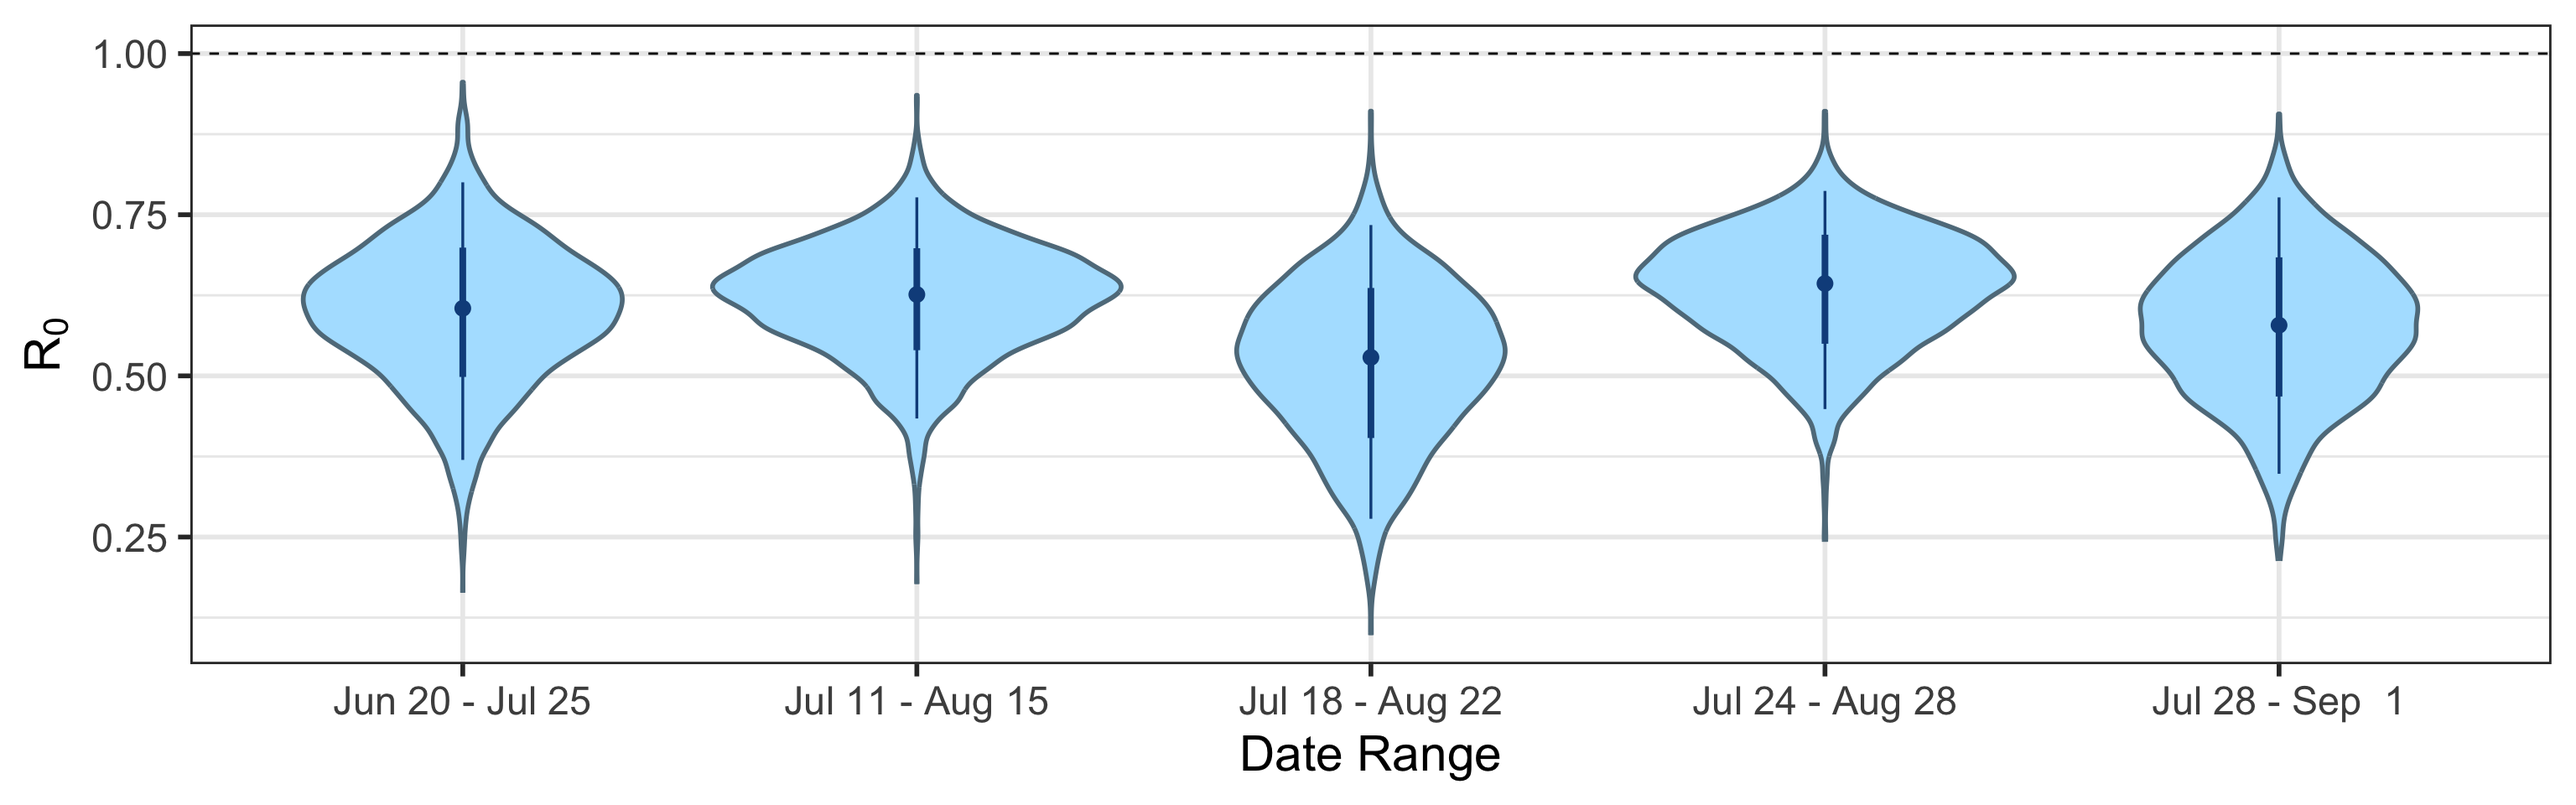
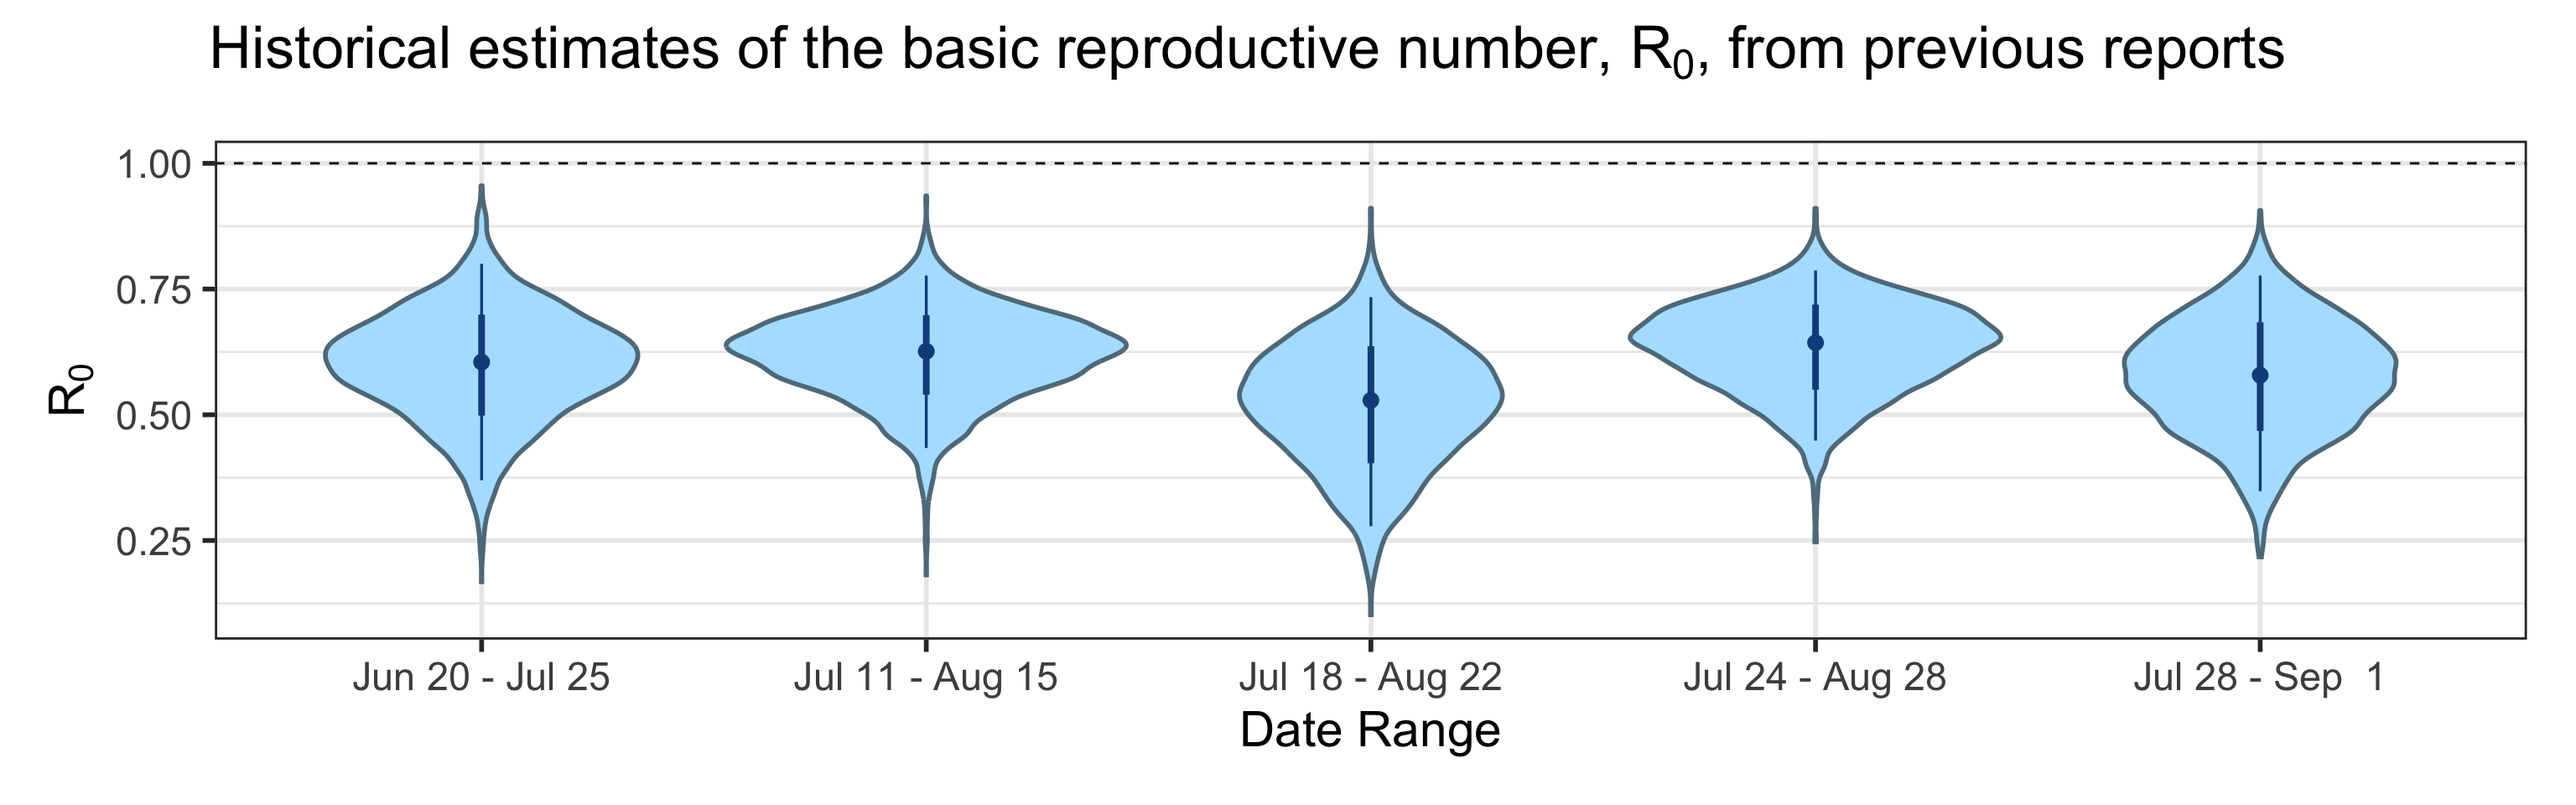
added title to the historical R0 plot

diff --git a/docs/index.html b/docs/index.html
@@ -358,7 +358,7 @@ $(document).ready(function () {
 <strong>Last updated:</strong> 2020-09-14
 </p>
 <p>
-<strong>Checks:</strong> <span class="glyphicon glyphicon-ok text-success" aria-hidden="true"></span> 5 <span class="glyphicon glyphicon-exclamation-sign text-danger" aria-hidden="true"></span> 2
+<strong>Checks:</strong> <span class="glyphicon glyphicon-ok text-success" aria-hidden="true"></span> 6 <span class="glyphicon glyphicon-exclamation-sign text-danger" aria-hidden="true"></span> 1
 </p>
 <p>
 <strong>Knit directory:</strong> <code>uci_covid_modeling/</code> <span class="glyphicon glyphicon-question-sign" aria-hidden="true" title="This is the local directory in which the code in this file was executed."> </span>
@@ -422,63 +422,12 @@ This reproducible <a href="http://rmarkdown.rstudio.com">R Markdown</a> analysis
 <div class="panel panel-default">
 <div class="panel-heading">
 <p class="panel-title">
-<a data-toggle="collapse" data-parent="#workflowr-checks" href="#strongCachestrongdetected"> <span class="glyphicon glyphicon-exclamation-sign text-danger" aria-hidden="true"></span> <strong>Cache:</strong> detected </a>
+<a data-toggle="collapse" data-parent="#workflowr-checks" href="#strongCachestrongnone"> <span class="glyphicon glyphicon-ok text-success" aria-hidden="true"></span> <strong>Cache:</strong> none </a>
 </p>
 </div>
-<div id="strongCachestrongdetected" class="panel-collapse collapse">
+<div id="strongCachestrongnone" class="panel-collapse collapse">
 <div class="panel-body">
-The following chunks had caches available:
-<ul>
-<li>
-executive-summary
-</li>
-<li>
-latent-vs-observed-incidence
-</li>
-<li>
-model-inputs
-</li>
-<li>
-ppc-forecasts
-</li>
-<li>
-R0 over tim
-</li>
-<li>
-R0-IFR
-</li>
-<li>
-reading-model-objects
-</li>
-<li>
-reading-sensitivity-objects
-</li>
-<li>
-unnamed-chunk-1
-</li>
-<li>
-unnamed-chunk-2
-</li>
-<li>
-unnamed-chunk-3
-</li>
-<li>
-unnamed-chunk-4
-</li>
-<li>
-unnamed-chunk-5
-</li>
-<li>
-unnamed-chunk-6
-</li>
-<li>
-unnamed-chunk-7
-</li>
-<li>
-unnamed-chunk-8
-</li>
-</ul>
-<p>To ensure reproducibility of the results, delete the cache directory <code>index_cache</code> and re-run the analysis. To have workflowr automatically delete the cache directory prior to building the file, set <code>delete_cache = TRUE</code> when running <code>wflow_build()</code> or <code>wflow_publish()</code>.</p>
+<p>Nice! There were no cached chunks for this analysis, so you can be confident that you successfully produced the results during this run.</p>
 </div>
 </div>
 </div>
@@ -497,16 +446,16 @@ unnamed-chunk-8
 <div class="panel panel-default">
 <div class="panel-heading">
 <p class="panel-title">
-<a data-toggle="collapse" data-parent="#workflowr-checks" href="#strongRepositoryversionstrongahrefhttpsgithubcomvnmininucicovidmodelingtreedbab6de143180c74d888b798a837240598a5b9f2targetblankdbab6dea"> <span class="glyphicon glyphicon-ok text-success" aria-hidden="true"></span> <strong>Repository version:</strong> <a href="https://github.com/vnminin/uci_covid_modeling/tree/dbab6de143180c74d888b798a837240598a5b9f2" target="_blank">dbab6de</a> </a>
+<a data-toggle="collapse" data-parent="#workflowr-checks" href="#strongRepositoryversionstrongahrefhttpsgithubcomvnmininucicovidmodelingtree4c36b15b504fc76145efd0221c98e536647824betargetblank4c36b15a"> <span class="glyphicon glyphicon-ok text-success" aria-hidden="true"></span> <strong>Repository version:</strong> <a href="https://github.com/vnminin/uci_covid_modeling/tree/4c36b15b504fc76145efd0221c98e536647824be" target="_blank">4c36b15</a> </a>
 </p>
 </div>
[2 lines of base64/hex data omitted]
 <div class="panel-body">
 <p>
 Great! You are using Git for version control. Tracking code development and connecting the code version to the results is critical for reproducibility.
 </p>
 <p>
-The results in this page were generated with repository version <a href="https://github.com/vnminin/uci_covid_modeling/tree/dbab6de143180c74d888b798a837240598a5b9f2" target="_blank">dbab6de</a>. See the <em>Past versions</em> tab to see a history of the changes made to the R Markdown and HTML files.
+The results in this page were generated with repository version <a href="https://github.com/vnminin/uci_covid_modeling/tree/4c36b15b504fc76145efd0221c98e536647824be" target="_blank">4c36b15</a>. See the <em>Past versions</em> tab to see a history of the changes made to the R Markdown and HTML files.
 </p>
 <p>
 Note that you need to be careful to ensure that all relevant files for the analysis have been committed to Git prior to generating the results (you can use <code>wflow_publish</code> or <code>wflow_git_commit</code>). workflowr only checks the R Markdown file, but you know if there are other scripts or data files that it depends on. Below is the status of the Git repository when the results were generated:
@@ -515,8 +464,8 @@ Note that you need to be careful to ensure that all relevant files for the analy
 Ignored files:
     Ignored:    .Rhistory
     Ignored:    .Rproj.user/
-    Ignored:    analysis/index_cache/
-    Ignored:    code/.DS_Store
+    Ignored:    analysis/jul18_aug22_cache/
+    Ignored:    analysis/jul24_aug28_cache/
 
 Unstaged changes:
     Modified:   analysis/index.Rmd
@@ -558,6 +507,40 @@ Message
 </tr>
 </thead>
 <tbody>
+<tr>
+<td>
+Rmd
+</td>
+<td>
+<a href="https://github.com/vnminin/uci_covid_modeling/blob/4c36b15b504fc76145efd0221c98e536647824be/analysis/index.Rmd" target="_blank">4c36b15</a>
+</td>
+<td>
+Damon Bayer
+</td>
+<td>
+2020-09-14
+</td>
+<td>
+History of R0 estimation
+</td>
+</tr>
+<tr>
+<td>
+html
+</td>
+<td>
+<a href="https://rawcdn.githack.com/vnminin/uci_covid_modeling/4c36b15b504fc76145efd0221c98e536647824be/docs/index.html" target="_blank">4c36b15</a>
+</td>
+<td>
+Damon Bayer
+</td>
+<td>
+2020-09-14
+</td>
+<td>
+History of R0 estimation
+</td>
+</tr>
 <tr>
 <td>
 Rmd
@@ -1885,6 +1868,39 @@ Date
 <tbody>
 <tr>
 <td>
+<a href="https://github.com/vnminin/uci_covid_modeling/blob/246fc9cf34e61aa672cc7e60885af33644947cf2/docs/figure/index.Rmd/latent-vs-observed-incidence-1.png" target="_blank">246fc9c</a>
+</td>
+<td>
+vnminin
+</td>
+<td>
+2020-09-13
+</td>
+</tr>
+<tr>
+<td>
+<a href="https://github.com/vnminin/uci_covid_modeling/blob/2ae9065cad796b569b391638cd6d16a752f4b16d/docs/figure/index.Rmd/latent-vs-observed-incidence-1.png" target="_blank">2ae9065</a>
+</td>
+<td>
+igoldsteinh
+</td>
+<td>
+2020-09-13
+</td>
+</tr>
+<tr>
+<td>
+<a href="https://github.com/vnminin/uci_covid_modeling/blob/ab9898ae0c0af20f3d26a64e90834b3a9feda3c9/docs/figure/index.Rmd/latent-vs-observed-incidence-1.png" target="_blank">ab9898a</a>
+</td>
+<td>
+Damon Bayer
+</td>
+<td>
+2020-09-08
+</td>
+</tr>
+<tr>
+<td>
 <a href="https://github.com/vnminin/uci_covid_modeling/blob/8b62aff70e5d519fa8e27720146dd52fda65ecae/docs/figure/index.Rmd/latent-vs-observed-incidence-1.png" target="_blank">8b62aff</a>
 </td>
 <td>
@@ -2172,13 +2188,13 @@ vnminin
 </table>
 </div>
 </div>
-<p><img src="figure/index.Rmd/R0%20over%20time-1.png" width="1536" style="display: block; margin: auto;" /></p>
+<p><img src="figure/index.Rmd/R0-over-time-1.png" width="1536" style="display: block; margin: auto;" /></p>
 </div>
 <div id="summary-statements-are-made-assuming-95-credibility-levels" class="section level2">
 <h2>Summary (statements are made assuming 95% credibility levels)</h2>
 <ul>
-<li>The number of reported cases (9,400 in this period, shown as black bars in the top-middle plot above) underestimates the actual number of infections by a factor that ranges between 1.7 and 16. This means that we estimate that the total number of infections occurred between July 24, 2020 and September 01, 2020 is between 16,000 and 150,000.</li>
-<li>Prevalence (number of infectious individuals at any time point) is declining, but is projected to be inside the interval (6,400, 52,000) on September 24.</li>
+<li>The number of reported cases (9,400 in this period, shown as black bars in the top-middle plot above) underestimates the actual number of infections by a factor that ranges between 1.7 and 16. This means that we estimate that the total number of infections occurred between July 28, 2020 and September 01, 2020 is between 16,000 and 150,000.</li>
+<li>Prevalence (number of infectious individuals at any time point) is declining, but is projected to be inside the interval (3,300, 42,000) on September 28.</li>
 <li>Deaths are also underreported, but not significantly so (black bars are a little below blue bands in the topleft plot above). Somewhere between 0.2% and 1% of all infections (not cases!) result in death.</li>
 <li>Basic reproductive number (<span class="math inline">\(R_0\)</span>), defined as the average number of secondary infections one infectious individual produces in a completely susceptible population, is inside the interval (0.35, 0.78).</li>
 <li>Effective reproductive number (<span class="math inline">\(R_e\)</span>), defined as its basic counterpart above, but allowing for some fraction of the population to be removed (recovered or deceased), as of September 01, 2020 is inside the interval (0.33, 0.73). <strong>We want to keep <span class="math inline">\(R_e &lt; 1\)</span> in order to control virus transmission</strong>.</li>
@@ -2214,6 +2230,17 @@ Date
 </tr>
 </thead>
 <tbody>
+<tr>
+<td>
+<a href="https://github.com/vnminin/uci_covid_modeling/blob/e819db9948145ef008e91920574867198b3122a1/docs/figure/index.Rmd/model-inputs-1.png" target="_blank">e819db9</a>
+</td>
+<td>
+Damon Bayer
+</td>
+<td>
+2020-09-13
+</td>
+</tr>
 <tr>
 <td>
 <a href="https://github.com/vnminin/uci_covid_modeling/blob/2ae9065cad796b569b391638cd6d16a752f4b16d/docs/figure/index.Rmd/model-inputs-1.png" target="_blank">2ae9065</a>
@@ -2370,6 +2397,17 @@ Date
 </tr>
 </thead>
 <tbody>
+<tr>
+<td>
+<a href="https://github.com/vnminin/uci_covid_modeling/blob/e819db9948145ef008e91920574867198b3122a1/docs/figure/index.Rmd/unnamed-chunk-1-1.png" target="_blank">e819db9</a>
+</td>
+<td>
+Damon Bayer
+</td>
+<td>
+2020-09-13
+</td>
+</tr>
 <tr>
 <td>
 <a href="https://github.com/vnminin/uci_covid_modeling/blob/2ae9065cad796b569b391638cd6d16a752f4b16d/docs/figure/index.Rmd/unnamed-chunk-1-1.png" target="_blank">2ae9065</a>
@@ -2699,6 +2737,17 @@ Date
 </tr>
 </thead>
 <tbody>
+<tr>
+<td>
+<a href="https://github.com/vnminin/uci_covid_modeling/blob/e819db9948145ef008e91920574867198b3122a1/docs/figure/index.Rmd/unnamed-chunk-3-1.png" target="_blank">e819db9</a>
+</td>
+<td>
+Damon Bayer
+</td>
+<td>
+2020-09-13
+</td>
+</tr>
 <tr>
 <td>
 <a href="https://github.com/vnminin/uci_covid_modeling/blob/2ae9065cad796b569b391638cd6d16a752f4b16d/docs/figure/index.Rmd/unnamed-chunk-3-1.png" target="_blank">2ae9065</a>
@@ -3066,6 +3115,17 @@ Date
 </tr>
 </thead>
 <tbody>
+<tr>
+<td>
+<a href="https://github.com/vnminin/uci_covid_modeling/blob/e819db9948145ef008e91920574867198b3122a1/docs/figure/index.Rmd/unnamed-chunk-5-1.png" target="_blank">e819db9</a>
+</td>
+<td>
+Damon Bayer
+</td>
+<td>
+2020-09-13
+</td>
+</tr>
 <tr>
 <td>
 <a href="https://github.com/vnminin/uci_covid_modeling/blob/2ae9065cad796b569b391638cd6d16a752f4b16d/docs/figure/index.Rmd/unnamed-chunk-5-1.png" target="_blank">2ae9065</a>
@@ -3484,6 +3544,17 @@ Date
 </tr>
 </thead>
 <tbody>
+<tr>
+<td>
+<a href="https://github.com/vnminin/uci_covid_modeling/blob/e819db9948145ef008e91920574867198b3122a1/docs/figure/index.Rmd/unnamed-chunk-7-1.png" target="_blank">e819db9</a>
+</td>
+<td>
+Damon Bayer
+</td>
+<td>
+2020-09-13
+</td>
+</tr>
 <tr>
 <td>
 <a href="https://github.com/vnminin/uci_covid_modeling/blob/2ae9065cad796b569b391638cd6d16a752f4b16d/docs/figure/index.Rmd/unnamed-chunk-7-1.png" target="_blank">2ae9065</a>
@@ -3930,13 +4001,13 @@ igoldsteinh
 </button>
 </p>
 <div id="workflowr-sessioninfo" class="collapse">
-<pre><code>R version 4.0.2 (2020-06-22)
+<pre><code>R version 4.0.0 (2020-04-24)
 Platform: x86_64-apple-darwin17.0 (64-bit)
-Running under: macOS Catalina 10.15.6
+Running under: macOS Catalina 10.15.4
 
 Matrix products: default
-BLAS:   /System/Library/Frameworks/Accelerate.framework/Versions/A/Frameworks/vecLib.framework/Versions/A/libBLAS.dylib
-LAPACK: /System/Library/Frameworks/Accelerate.framework/Versions/A/Frameworks/vecLib.framework/Versions/A/libLAPACK.dylib
+BLAS:   /Library/Frameworks/R.framework/Versions/4.0/Resources/lib/libRblas.dylib
+LAPACK: /Library/Frameworks/R.framework/Versions/4.0/Resources/lib/libRlapack.dylib
 
 locale:
 [1] en_US.UTF-8/en_US.UTF-8/en_US.UTF-8/C/en_US.UTF-8/en_US.UTF-8
@@ -3952,30 +4023,30 @@ other attached packages:
 [17] workflowr_1.6.2
 
 loaded via a namespace (and not attached):
- [1] matrixStats_0.56.0   httr_1.4.1           rprojroot_1.3-2     
- [4] rstan_2.21.1         tools_4.0.2          backports_1.1.8     
- [7] utf8_1.1.4           R6_2.4.1             DBI_1.1.0           
-[10] colorspace_1.4-1     ggdist_2.2.0         withr_2.2.0         
-[13] gridExtra_2.3        tidyselect_1.1.0     prettyunits_1.1.1   
-[16] processx_3.4.3       curl_4.3             compiler_4.0.2      
-[19] git2r_0.27.1         cli_2.0.2            rvest_0.3.5         
-[22] arrayhelpers_1.1-0   xml2_1.3.2           labeling_0.3        
-[25] callr_3.4.3          digest_0.6.25        StanHeaders_2.21.0-5
-[28] rmarkdown_2.3        pkgconfig_2.0.3      htmltools_0.5.0     
-[31] dbplyr_1.4.4         rlang_0.4.7          readxl_1.3.1        
-[34] rstudioapi_0.11      farver_2.0.3         generics_0.0.2      
-[37] svUnit_1.0.3         jsonlite_1.7.0       distributional_0.1.0
-[40] inline_0.3.15        magrittr_1.5         loo_2.3.1           
+ [1] matrixStats_0.56.0   RColorBrewer_1.1-2   httr_1.4.1          
+ [4] rprojroot_1.3-2      rstan_2.21.1         tools_4.0.0         
+ [7] backports_1.1.8      utf8_1.1.4           R6_2.4.1            
+[10] DBI_1.1.0            colorspace_1.4-1     ggdist_2.1.1        
+[13] withr_2.2.0          tidyselect_1.1.0     gridExtra_2.3       
+[16] prettyunits_1.1.1    processx_3.4.3       curl_4.3            
+[19] compiler_4.0.0       git2r_0.27.1         cli_2.0.2           
+[22] rvest_0.3.5          arrayhelpers_1.1-0   xml2_1.3.2          
+[25] labeling_0.3         callr_3.4.3          digest_0.6.25       
+[28] StanHeaders_2.21.0-5 rmarkdown_2.3        pkgconfig_2.0.3     
+[31] htmltools_0.5.0      dbplyr_1.4.4         rlang_0.4.7         
+[34] readxl_1.3.1         rstudioapi_0.11      farver_2.0.3        
+[37] generics_0.0.2       svUnit_1.0.3         jsonlite_1.7.0      
+[40] inline_0.3.15        magrittr_1.5         loo_2.3.0           
 [43] Rcpp_1.0.5           munsell_0.5.0        fansi_0.4.1         
 [46] lifecycle_0.2.0      stringi_1.4.6        whisker_0.4         
-[49] yaml_2.2.1           pkgbuild_1.1.0       plyr_1.8.6          
-[52] grid_4.0.2           blob_1.2.1           parallel_4.0.2      
+[49] yaml_2.2.1           pkgbuild_1.0.8       plyr_1.8.6          
+[52] grid_4.0.0           blob_1.2.1           parallel_4.0.0      
 [55] promises_1.1.1       crayon_1.3.4         lattice_0.20-41     
 [58] haven_2.3.1          hms_0.5.3            knitr_1.29          
 [61] ps_1.3.3             pillar_1.4.6         codetools_0.2-16    
-[64] stats4_4.0.2         reprex_0.3.0         evaluate_0.14       
+[64] stats4_4.0.0         reprex_0.3.0         evaluate_0.14       
 [67] V8_3.2.0             RcppParallel_5.0.2   modelr_0.1.8        
-[70] vctrs_0.3.2          httpuv_1.5.4         cellranger_1.1.0    
+[70] vctrs_0.3.1          httpuv_1.5.4         cellranger_1.1.0    
 [73] gtable_0.3.0         assertthat_0.2.1     xfun_0.15           
 [76] broom_0.7.0          coda_0.19-3          later_1.1.0.1       
 [79] ellipsis_0.3.1      </code></pre>
